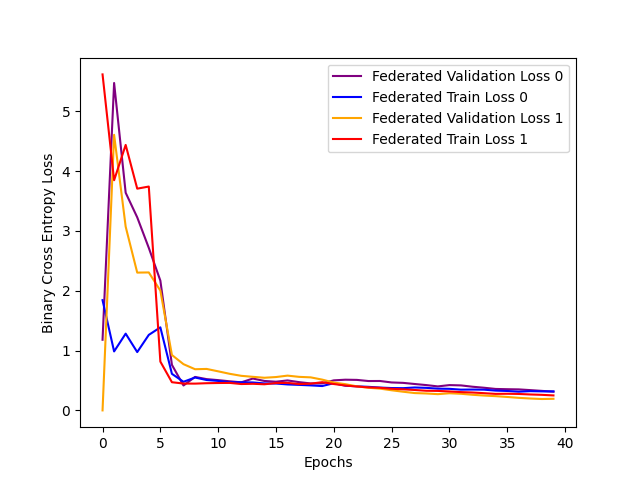
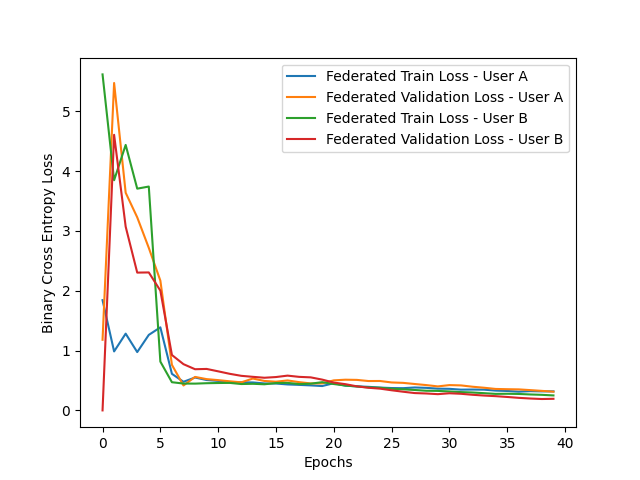
Adjusted plots

Changed region(s): [[0.1562, 0.1562, 0.875, 0.8438], [0.4375, 0.125, 0.875, 0.3125]]

diff --git a/experiment-visualization/main.py b/experiment-visualization/main.py
@@ -5,10 +5,10 @@ with open('experiments/2/0.json') as f0:
     with open('experiments/2/1.json') as f1:
         entries0 = json.load(f0)
         entries1 = json.load(f1)
-        plt.plot([x["localErrorVal"] for x in entries0[:40]], label="Local Train Loss 0", color="blue")
-        plt.plot([x["localErrorTrain"] for x in entries0[:40]], label="Local Validation Loss 0", color="purple")
-        plt.plot([x["localErrorVal"] for x in entries1[:40]], label="Local Validation Loss 1", color="orange")
-        plt.plot([x["localErrorTrain"] for x in entries1[:40]], label="Local Train Loss 1", color="red")
+        plt.plot([x["localErrorVal"] for x in entries0[:40]], label="Local Train Loss - User A")
+        plt.plot([x["localErrorTrain"] for x in entries0[:40]], label="Local Validation Loss - User A")
+        plt.plot([x["localErrorTrain"] for x in entries1[:40]], label="Local Train Loss - User B")
+        plt.plot([x["localErrorVal"] for x in entries1[:40]], label="Local Validation Loss - User B")
         plt.legend()
         plt.xlabel("Epochs")
         plt.ylabel("Binary Cross Entropy Loss")
@@ -18,10 +18,10 @@ with open('experiments/2/0.json') as f0:
     with open('experiments/2/1.json') as f1:
         entries0 = json.load(f0)
         entries1 = json.load(f1)
-        plt.plot([x["federatedErrorVal"] for x in entries0[:40]], label="Federated Validation Loss 0", color="purple")
-        plt.plot([x["federatedErrorTrain"] for x in entries0[:40]], label="Federated Train Loss 0", color="blue")
-        plt.plot([x["federatedErrorVal"] for x in entries1[:40]], label="Federated Validation Loss 1", color="orange")
-        plt.plot([x["federatedErrorTrain"] for x in entries1[:40]], label="Federated Train Loss 1", color="red")
+        plt.plot([x["federatedErrorTrain"] for x in entries0[:40]], label="Federated Train Loss - User A")
+        plt.plot([x["federatedErrorVal"] for x in entries0[:40]], label="Federated Validation Loss - User A")
+        plt.plot([x["federatedErrorTrain"] for x in entries1[:40]], label="Federated Train Loss - User B")
+        plt.plot([x["federatedErrorVal"] for x in entries1[:40]], label="Federated Validation Loss - User B")
         plt.legend()
         plt.xlabel("Epochs")
         plt.ylabel("Binary Cross Entropy Loss")
